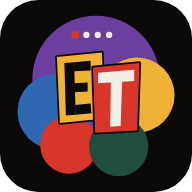
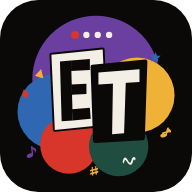
feat(brand): bigger ET on Ink/Ivory scraps with Mark sprinkles
Per Burooj's review: the ET grows from 0.86 to 0.98 scale; each scrap is
now the opposite Ink/Ivory of its letter, so the colour belongs to the
five-circle cluster; seven real Marks sprinkle the field and drop out with
the beats below 72px. Icons regenerated from the shared geometry.

diff --git a/src/components/uniques/brandMark.ts b/src/components/uniques/brandMark.ts
@@ -5,11 +5,13 @@
  *
  * The five-circle silhouette is the brand's oldest shape (the OG favicon) and
  * keeps its geometry: one big Plum behind, Cobalt left, Mustard right, Tomato
- * and Pine low. The Count-In paste-up ET is pasted onto the Plum, small enough
- * that all five circles still read at 16px. Each scrap sits against a colour
- * other than its own paper (Mustard E over Plum and Cobalt, Tomato T over Plum
- * and Mustard), and an Ink cut-edge separates paper from paper where they meet.
+ * and Pine low. The Count-In paste-up ET is pasted onto the Plum, sized so all
+ * five circles still read at 16px. The scraps are Ink/Ivory paper, each the
+ * opposite of its letter (an Ink E on an Ivory scrap, an Ivory T on an Ink
+ * scrap), so the colour belongs to the cluster and the ET reads on any blob.
+ * An Ink cut-edge separates paper from paper where they meet.
  */
+import type { MarkName } from "@/components/primatives/marks";
 
 export type BrandTone = "cobalt" | "mustard" | "pine" | "plum" | "tomato";
 
@@ -41,7 +43,7 @@ export const BRAND_BLOBS: BrandBlob[] = [
 export const BRAND_BEATS = { y: -6, xs: [66, 79, 92, 105], r: 3.6, downbeatR: 4.5 } as const;
 
 /** Places the Count-In scraps (authored on a 120 × 124 board) onto the Plum. */
-export const BRAND_SCRAPS_TRANSFORM = "translate(40 2) scale(.86)";
+export const BRAND_SCRAPS_TRANSFORM = "translate(33 -3) scale(.98)";
 
 /** Cut-edge width in scrap units. */
 export const BRAND_CUT_WIDTH = 4.5;
@@ -66,3 +68,42 @@ export const BRAND_SCRAPS: BrandScrap[] = [
 
 /** Below this rendered mark width the beats are noise and drop out. */
 export const BRAND_BEATS_MIN_WIDTH = 72;
+
+export type BrandSprinkleTone = BrandTone | "ivory";
+
+export interface BrandSprinkle {
+  name: MarkName;
+  /** Centre in mark units. */
+  x: number;
+  y: number;
+  /** Rendered width in mark units. */
+  size: number;
+  rotate: number;
+  tone: BrandSprinkleTone;
+}
+
+/**
+ * Real Marks scattered around the cluster. Ivory only ever sits on a blob, so
+ * every sprinkle reads on both Ink and Bone. They drop out with the beats
+ * below BRAND_BEATS_MIN_WIDTH.
+ */
+export const BRAND_SPRINKLES: BrandSprinkle[] = [
+  { name: "diamond", x: 9, y: 62, size: 13, rotate: -16, tone: "tomato" },
+  { name: "triangle", x: 26, y: 38, size: 12, rotate: 16, tone: "mustard" },
+  { name: "star", x: 158, y: 20, size: 14, rotate: 9, tone: "cobalt" },
+  { name: "grace", x: 170, y: 106, size: 17, rotate: 12, tone: "mustard" },
+  { name: "eighth", x: 16, y: 128, size: 16, rotate: -8, tone: "plum" },
+  { name: "sharp", x: 88, y: 150, size: 13, rotate: -5, tone: "mustard" },
+  { name: "wave", x: 128, y: 138, size: 17, rotate: -5, tone: "ivory" },
+];
+
+/**
+ * Places a Mark's own drawing (its viewBox from marks.ts) at a sprinkle's
+ * centre, size and tilt. The viewBox is passed in so the icon script can run
+ * this file in plain Node.
+ */
+export function brandSprinkleTransform(sprinkle: BrandSprinkle, viewBox: readonly [number, number, number, number]): string {
+  const [, , width, height] = viewBox;
+  const scale = sprinkle.size / width;
+  return `translate(${sprinkle.x} ${sprinkle.y}) rotate(${sprinkle.rotate}) scale(${scale}) translate(${-width / 2} ${-height / 2})`;
+}

diff --git a/src/components/uniques/BrandLogo.vue b/src/components/uniques/BrandLogo.vue
@@ -7,7 +7,10 @@ import {
   BRAND_MARK_VIEWBOX,
   BRAND_SCRAPS,
   BRAND_SCRAPS_TRANSFORM,
+  BRAND_SPRINKLES,
+  brandSprinkleTransform,
 } from "./brandMark";
+import { MARK_DEFINITIONS } from "../primatives/marks";
 
 export type BrandLogoLayout = "stacked" | "compact" | "mark";
 export type BrandLogoSurface = "ink" | "bone";
@@ -85,6 +88,24 @@ const logoStyle = computed(() => ({ "--brand-logo-mark-width": resolvedSize.valu
             <polygon v-for="glyph in scrap.glyphs" :key="glyph" class="brand-logo__glyph" :points="glyph" />
           </g>
         </g>
+
+        <g class="brand-logo__sprinkles">
+          <g
+            v-for="sprinkle in BRAND_SPRINKLES"
+            :key="sprinkle.name"
+            class="brand-logo__sprinkle"
+            :data-mark="sprinkle.name"
+            :transform="brandSprinkleTransform(sprinkle, MARK_DEFINITIONS[sprinkle.name].viewBox)"
+            :style="{ fill: `var(--${sprinkle.tone})` }"
+          >
+            <path
+              v-for="(path, index) in MARK_DEFINITIONS[sprinkle.name].paths"
+              :key="index"
+              :d="path.d"
+              :fill-rule="path.fillRule"
+            />
+          </g>
+        </g>
       </svg>
     </div>
 
@@ -139,14 +160,15 @@ const logoStyle = computed(() => ({ "--brand-logo-mark-width": resolvedSize.valu
   paint-order: stroke;
 }
 
-.brand-logo__scrap--e .brand-logo__paper { fill: var(--mustard); }
+.brand-logo__scrap--e .brand-logo__paper { fill: var(--ivory); }
 .brand-logo__scrap--e .brand-logo__glyph { fill: var(--ink); }
-.brand-logo__scrap--t .brand-logo__paper { fill: var(--tomato); }
+.brand-logo__scrap--t .brand-logo__paper { fill: var(--ink); }
 .brand-logo__scrap--t .brand-logo__glyph { fill: var(--ivory); }
 
-/* Below 72px (BRAND_BEATS_MIN_WIDTH) the beats are noise; the cluster and ET carry the mark alone. */
+/* Below 72px (BRAND_BEATS_MIN_WIDTH) the beats and sprinkles are noise; the cluster and ET carry the mark alone. */
 @container (max-width: 72px) {
   .brand-logo__beats { display: none; }
+  .brand-logo__sprinkles { display: none; }
 }
 
 .brand-logo__wordmark {
@@ -175,6 +197,7 @@ const logoStyle = computed(() => ({ "--brand-logo-mark-width": resolvedSize.valu
 @media (forced-colors: active) {
   .brand-logo__backdrop { fill: CanvasText !important; }
   .brand-logo__beat,
+  .brand-logo__sprinkle,
   .brand-logo__scrap .brand-logo__paper { fill: Canvas; stroke: CanvasText; }
   .brand-logo__scrap .brand-logo__glyph { fill: CanvasText; }
   .brand-logo__wordmark { color: CanvasText; }

diff --git a/src/style-guide/uniques/UniqueBrandLogo.vue b/src/style-guide/uniques/UniqueBrandLogo.vue
@@ -6,11 +6,11 @@ import VariantGrid from "../guide/VariantGrid.vue";
 
 const features = [
   { label: "Role", value: "singular EmotiTone identity artifact" },
-  { label: "Structure", value: "five circles → four beats → two paste-up scraps" },
+  { label: "Structure", value: "five circles → four beats → two paste-up scraps → seven Mark sprinkles" },
   { label: "Silhouette", value: "the OG five-circle cluster: big Plum behind, Cobalt left, Mustard right, Tomato and Pine low" },
-  { label: "Monogram", value: "Ink E on a Mustard scrap · Ivory T on a Tomato scrap · Ink cut-edges" },
-  { label: "Contrast", value: "each scrap sits on a colour other than its own paper" },
-  { label: "Small sizes", value: "beats drop out below 72px; cluster + ET carry the favicon" },
+  { label: "Monogram", value: "Ink E on an Ivory scrap · Ivory T on an Ink scrap · Ink cut-edges" },
+  { label: "Contrast", value: "Ink/Ivory scraps read on any blob; the colour belongs to the cluster" },
+  { label: "Small sizes", value: "beats and sprinkles drop out below 72px; cluster + ET carry the favicon" },
   { label: "Lockups", value: "stacked · compact · mark-only · EMOTI + Tomato TONE tab" },
   { label: "Source", value: "geometry in brandMark.ts, shared with the exported app icons" },
 ];

diff --git a/src/__tests__/components/ui/BrandLogo.test.ts b/src/__tests__/components/ui/BrandLogo.test.ts
@@ -39,6 +39,10 @@ describe("BrandLogo", () => {
     expect(children.slice(0, 5).every((element) => element.classList.contains("brand-logo__backdrop"))).toBe(true);
     expect(children[5].classList.contains("brand-logo__beats")).toBe(true);
     expect(children[6].classList.contains("brand-logo__scraps")).toBe(true);
+    expect(children[7].classList.contains("brand-logo__sprinkles")).toBe(true);
+    expect(wrapper.findAll(".brand-logo__sprinkle")).toHaveLength(7);
+    expect(brandLogoSource).toMatch(/\.brand-logo__scrap--e \.brand-logo__paper \{ fill: var\(--ivory\); \}/);
+    expect(brandLogoSource).toMatch(/\.brand-logo__scrap--t \.brand-logo__paper \{ fill: var\(--ink\); \}/);
     expect(BRAND_SCRAPS.map((scrap) => scrap.id)).toEqual(["e", "t"]);
     expect(brandLogoSource).toMatch(/\.brand-logo__paper\s*\{[^}]*stroke:\s*var\(--ink\)/s);
     expect(brandLogoSource).toMatch(/@container \(max-width: 72px\)\s*\{\s*\.brand-logo__beats \{ display: none; \}/s);

diff --git a/src/style-guide/DESIGN_SYSTEM_TRACKER.md b/src/style-guide/DESIGN_SYSTEM_TRACKER.md
@@ -71,7 +71,7 @@ Work from a focused branch based on the current mainline, normally the latest `o
 | Mark family | Primitive family | The accepted 29-glyph renderer-neutral registry, including Square, is authoritative for SVG and canvas, has a real complete guide specimen, and is production-adopted by Beat Indicator, Stage particles, and Loading Screen's restrained loose-mark field. Structural and musical shapes are equal Marks; Stage samples the whole registry randomly per spawn, so Square is intentionally eligible there | Preserve one geometry authority and each consumer's ownership: Beat Indicator owns selection and UIBeat presentation, Stage owns Music Color/physics/lifetime, and Loading Screen owns only placement and motion |
 | Blob relationships | Canvas relationship system | Defined by the accepted filled Merge / fine Web direction and Burooj’s follow-up requiring organic fusion, rooted strands, and restored connection vibration. Authoritative source: `useBlobFieldRenderer` owns the filled, gently concave Merge envelope and Web’s soft tapering roots plus fine cores; both derive motion from the existing prepared Blob contours and share the Blob blur/glow authority. Merge mixes opaque Music Color values by spatial influence; prepared note opacity controls visibility without darkening or tinting the fused material. Chord, interval, and emotion explanations share the product's Lets Jazz display face through the authoritative harmonic-geometry renderer. Real specimens: Harmonic Geometry and Stage consume that source. Production adoption: the same Stage renderer consumes it, including direct small singleton bodies that remain visible through holds. All four gates are closed: Burooj accepted the revised organic Merge / rooted Web finish on 2026-09-24. Local desktop/phone Chromium captures and the moving material comparison are receipted in the Log; that capture directory never reached mainline | Preserve lifecycle/replay, exact-pitch Music Color, stable rendered-radius Web anchor identity, contour-driven vibration and Reduced Motion stillness, labels and independent Web/label opacity, release tiers that retain the held Merge envelope without weighting RGB by release opacity, and the 30k field-pixel budget. Merge must retain members near an inward-curved edge. Physical-device rendering/performance remains unclaimed |
 | PatternReel | Compound | All four gates are closed for the accepted Wheel Deck. `PatternReel.vue` is the controlled visual authority; the real guide and production `PatternList.vue` consume it inside `PerformanceDeck`. Its edge-to-edge transparent Stage placement reserves exactly the current 51.2px PatternStrip; up to three inert predecessors remain absolute and visibly peek at shallow −14.4px, −24.8px, and −33.6px deck offsets while idle, then temporarily unfold farther upward during drag/wheel/tap interaction without moving the deck. A host-owned entry signal stages the whole deck one cyclic slot lower before the same 220ms transform/opacity settle rotates a fresh Current Take into place; production derives that signal from the store-owned take lifecycle for Send plus actual silence, musical-context, and forced-boundary replacements, without double-firing for a compatible loaded continuation or the first post-Send note. A confirmed selected deletion commits the pre-deletion predecessor before removal, so it rotates upward through the ordinary reel path; first-tap arming and background deletion preserve selection. While revealed or moving, the reel root paints above and pointer-shields the overlapping Drawer handle through final collapse. Reduced Motion commits without staged movement, and Forced Colors keeps the below-deck staged Current hidden until its entry begins. Cyclic selection, the 200ms symmetric end-rebound, 900ms reading hold, and discrete Reduced Motion access remain adopted. `PatternList.vue` remains the adapter for store mapping, live Current Take sharing, and application effects | Preserve the controlled selected-id boundary, cyclic order, current-only layout footprint, shallow idle stack, transient upward reveal, store-owned fresh-take entry rotation, predecessor-first selected deletion, transparent Stage placement, protected handle overlap, action truthfulness, rename/deletion state, focus and pointer lifecycle, short-reel staging, motion timings, accessibility isolation, and adapter-owned effects. The store's lack of one canonical current-pattern object remains nonvisual lifecycle debt |
-| Brand Logo | Unique, compound-scale | Count-In Cluster, chosen by Burooj on 2026-09-26 from the Loading Lab (Direction A) with the OG five-circle silhouette kept. Defined and authoritative in `BrandLogo.vue`, with geometry in `brandMark.ts`: the five smooth brand-colour circles keep their original geometry (big Plum behind, Cobalt left, Mustard right, Tomato and Pine low) and carry the Count-In paste-up ET on the Plum: an Ink E on a Mustard scrap and an Ivory T on a Tomato scrap, each over a colour other than its own paper, with Ink cut-edges. Four count-in beats ride the Plum crown and drop out below 72px. The wordmark is EMOTI + a Tomato TONE tab. The logo is static; the Loading Screen animates its beats and scraps at the composition layer. Public API (`layout`, `surface`, `size`, `accessibleLabel`) is unchanged. `scripts/generate-brand-icons.mjs` exports the same geometry as `public/icon.svg` (favicon, no beats) and `icon-192/512` SVG + PNG | Keep the five-circle silhouette legible at 16px; never let a scrap sit on its own paper colour; keep motion out of the logo source and regenerate icons from `brandMark.ts` rather than hand-editing them |
+| Brand Logo | Unique, compound-scale | Count-In Cluster, chosen by Burooj on 2026-09-26 from the Loading Lab (Direction A) with the OG five-circle silhouette kept, refined by him on 2026-09-27 (bigger ET, Ink/Ivory scraps, Mark sprinkles). Defined and authoritative in `BrandLogo.vue`, with geometry in `brandMark.ts`: the five smooth brand-colour circles keep their original geometry (big Plum behind, Cobalt left, Mustard right, Tomato and Pine low) and carry the Count-In paste-up ET on the Plum: an Ink E on an Ivory scrap and an Ivory T on an Ink scrap, with Ink cut-edges, so the colour belongs to the cluster and the ET reads on any blob. Four count-in beats ride the Plum crown and seven real Marks sprinkle the field; both drop out below 72px. The wordmark is EMOTI + a Tomato TONE tab. The logo is static; the Loading Screen animates its beats and scraps at the composition layer. Public API (`layout`, `surface`, `size`, `accessibleLabel`) is unchanged. `scripts/generate-brand-icons.mjs` exports the same geometry as `public/icon.svg` (favicon, no beats or sprinkles) and `icon-192/512` SVG + PNG | Keep the five-circle silhouette legible at 16px; keep the scraps Ink/Ivory opposite their letters; Ivory sprinkles only on a blob; keep motion out of the logo source and regenerate icons from `brandMark.ts` rather than hand-editing them |
 
 Do not re-grill closed units without a concrete contradiction or explicit request.
 

diff --git a/src/style-guide/DESIGN_LOG.md b/src/style-guide/DESIGN_LOG.md
@@ -315,3 +315,4 @@ Design-lab-era extraction and audit history remains recoverable in Git through `
 | 2026-09-26 | Style Guide redo — first slice | Burooj chose page-per-layer, a full poster/cut-paper voice, and density by complexity. A catalog-driven shell replaces the 39,000px sink-port page with an index map and six layer pages; the shared specimen frames adopt the new voice. Registration tests read the catalog | `d8f3c47e`, `8820fac1`; type-check/build pass; 1670/1670 tests; headless Chrome at 390 and 1440 finds no console errors and no page-level horizontal overflow on any guide route; four legacy specimens still have internals wider than 390px and now scroll inside their sheet. The repo `lint` script and ESLint config are broken independently of this work |
 | 2026-09-26 | Style Guide redo — all layers migrated | Six parallel Opus agents migrated the Token pages, the remaining uniques/systems/composition specimens, and the six focused pages under one written brief; each area was reviewed from 390/1440 captures before commit. Follow-ups: dark layer papers gained a legible text variant, production drawer handles on focused pages sit above the masthead, and four drifting toggle-chip copies became one `.guide-chip` | `f9ca5776`..`6c49c068`; type-check and build pass; full suite green; headless Chrome finds no console errors and no page-level horizontal overflow on any guide route at 390 or 1440 |
 | 2026-09-26 | Count-In adopted as the Loading Screen and Brand Logo | From the Loading Lab, Burooj chose Direction A: "I absolutely love the Count-In loading screen. We are absolutely going with that. I even like the logo. But I really want that 5-blob bg silhouette to live on too. That was the OG favicon." Three hybrids were prototyped at large, 48, 32 and 16px on Ink and Bone; the chosen Count-In Cluster keeps the five-circle geometry and pastes a smaller Count-In ET onto the Plum with Ink cut-edges, so the OG silhouette still reads at 16px and neither scrap sits on its twin. `LoadingScreen.vue` is now Count-In with production error/retry and enable-audio states designed in its voice; the icons are regenerated from the shared geometry. The lab stays an independent exploratory PR | See branch `design/count-in-adoption`; verification recorded in the commit messages |
+| 2026-09-27 | Brand Logo refined after review | Burooj: "Logo looks great. I'd like you to maybe make ET slightly bigger. Change their box bg to the opposite ink/ivory from their text. Add some sprinkles of marks." The ET scraps grow from 0.86 to 0.98 scale; the E is now Ink on an Ivory scrap and the T Ivory on an Ink scrap; seven real Marks (diamond, triangle, star, grace, eighth, sharp, wave) sprinkle the field, Ivory only on a blob, and drop out with the beats below 72px. Icons regenerated | Branch `design/count-in-adoption` |
